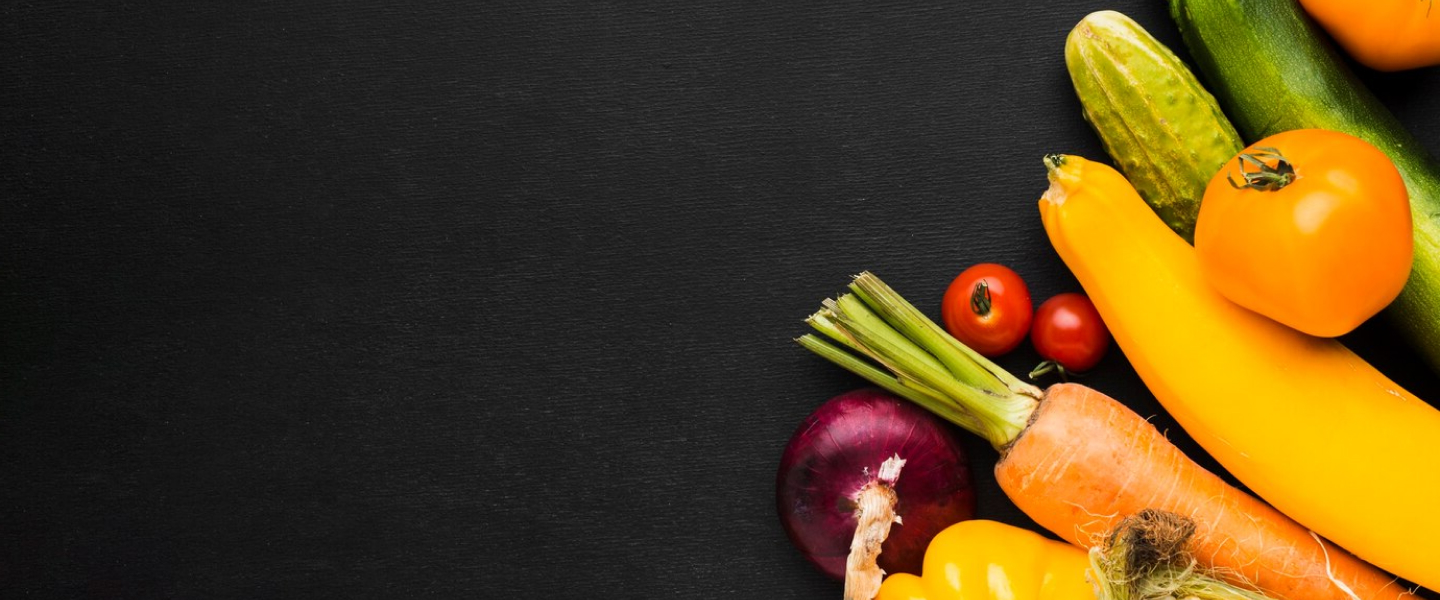
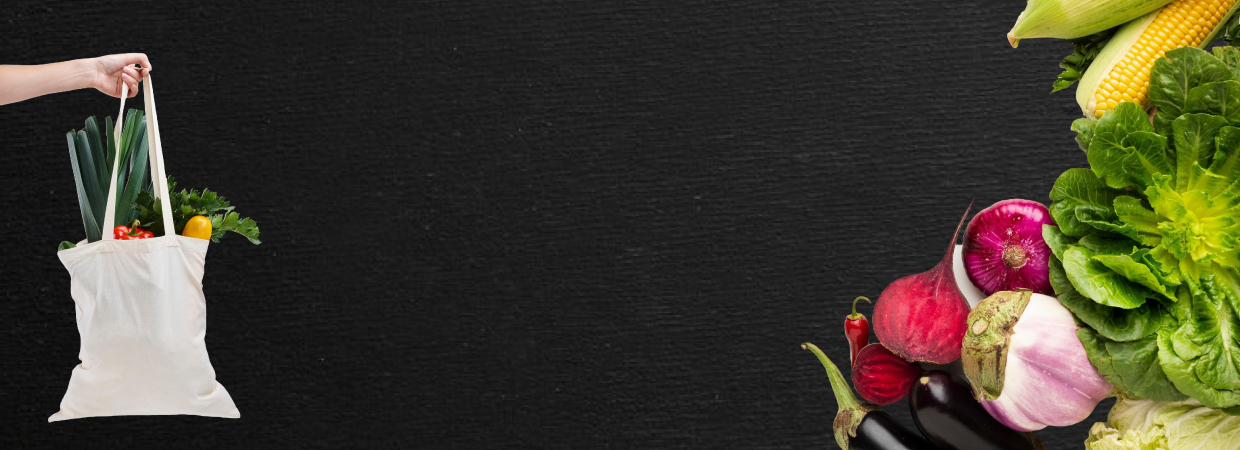
update

diff --git a/index.html b/index.html
@@ -1,0 +1,218 @@
+<!DOCTYPE html>
+<html lang="en">
+
+<head>
+    <meta charset="UTF-8">
+    <meta name="viewport" content="width=device-width, initial-scale=1.0">
+    <title>SynBio - Belanja Buah & Sayur</title>
+
+    <!-- ini favicon -->
+     <link rel="shortcut icon" href="./Assets/faficon.png" type="image/x-icon">
+
+    <!-- bootstrap css -->
+    <link rel="stylesheet" href="./css/bootstrap.min.css">
+
+    <!-- bootstrap js -->
+    <script src="./js/bootstrap.min.js"></script>
+
+    <!-- css -->
+    <link rel="stylesheet" href="./style.css">
+
+    <!-- font awesome -->
+    <link rel="stylesheet" href="https://cdnjs.cloudflare.com/ajax/libs/font-awesome/6.5.1/css/all.min.css">
+</head>
+
+<body>
+    <!-- navbar -->
+    <nav class="navbar navbar-expand-lg bg-body-tertiary">
+        <div class="container">
+            <a class="navbar-brand" href="#"><img src="./Assets/Logo.png" alt="Logo"></a>
+            <button class="navbar-toggler" type="button" data-bs-toggle="collapse" data-bs-target="#navbarNavAltMarkup"
+                aria-controls="navbarNavAltMarkup" aria-expanded="false" aria-label="Toggle navigation">
+                <span class="navbar-toggler-icon"></span>
+            </button>
+            <div class="collapse navbar-collapse" id="navbarNavAltMarkup">
+                <div class="navbar-nav">
+                    <a class="nav-link" aria-current="page" href="./index.html">Beranda</a>
+                    <a class="nav-link" href="./produkPage.html">Produk</a>
+                    <a class="btn btn-outline-success" href="./loginPage.html">Login</a>
+                </div>
+            </div>
+        </div>
+    </nav>
+    <!--navbar -->
+
+    <!-- hero -->
+    <section id="hero">
+        <div class="container">
+            <div class="row">
+                <div class="col-lg-6">
+                    <div class="konten-hero">
+                        <h1>Pilihan Tepat untuk <span class="text-success">Hidup Sehat</span></h1>
+                        <p class="pt-3 pb-3">Lorem ipsum dolor sit amet consectetur. Aliquet mauris id amet et pulvinar
+                            condimentum.
+                            Pulvinar
+                            sapien gravida congue feugiat eros in amet.</p>
+                        <a class="btn btn-outline-success" href="./produkPage.html">Mulai Belanja</a>
+                    </div>
+                </div>
+            </div>
+        </div>
+    </section>
+    <!-- hero -->
+
+    <!-- produk -->
+    <section id="produk">
+        <div class="container">
+            <!-- ini produk terbaik -->
+            <div class="row">
+                <div class="col-lg-6">
+                    <h4>Produk Terbaik</h4>
+                </div>
+                <div class="col-lg-6">
+                    <a class="more" href="./produkPage.html">Lihat Semua Produk <i
+                            class="fa-solid fa-arrow-right ps-2"></i></a>
+                </div>
+            </div>
+
+            <div class="row mt-3">
+                <div class="col-lg-3">
+                    <a class="card card-produk" href="./detail.html">
+                        <div class="foto-produk border p-5">
+                            <img src="./Assets/Produk1.png" class="card-img-top" alt="produk">
+                        </div>
+                        <div class="card-body text-center">
+                            <h5 class="card-tittle">Pisang Cavendish</h5>
+                            <p class="card-text">Rp. 35.000/kg</p>
+                        </div>
+                    </a>
+                </div>
+
+                <div class="col-lg-3">
+                    <a class="card card-produk" href="./detail.html">
+                        <div class="foto-produk border p-5">
+                            <img src="./Assets/Produk2.png" class="card-img-top" alt="produk">
+                        </div>
+                        <div class="card-body text-center">
+                            <h5 class="card-tittle">Wortel Premium</h5>
+                            <p class="card-text">Rp. 20.000/kg</p>
+                        </div>
+                    </a>
+                </div>
+
+                <div class="col-lg-3">
+                    <a class="card card-produk" href="./detail.html">
+                        <div class="foto-produk border p-5">
+                            <img src="./Assets/Produk3.png" class="card-img-top" alt="produk">
+                        </div>
+                        <div class="card-body text-center">
+                            <h5 class="card-tittle">Apel Fuji</h5>
+                            <p class="card-text">Rp. 40.000/kg</p>
+                        </div>
+                    </a>
+                </div>
+
+                <div class="col-lg-3">
+                    <a class="card card-produk" href="./detail.html">
+                        <div class="foto-produk border p-5">
+                            <img src="./Assets/Produk4.png" class="card-img-top" alt="produk">
+                        </div>
+                        <div class="card-body text-center">
+                            <h5 class="card-tittle">Bayam Hijau</h5>
+                            <p class="card-text">Rp. 15.000/kg</p>
+                        </div>
+                    </a>
+                </div>
+
+            </div>
+
+            <!-- ini produk lainnya -->
+            <div class="row mt-5">
+                <div class="col-lg-6">
+                    <h4>Produk Lainnya</h4>
+                </div>
+                <div class="col-lg-6">
+                    <a class="more" href="./produkPage.html">Lihat Semua Produk <i
+                            class="fa-solid fa-arrow-right ps-2"></i></a>
+                </div>
+            </div>
+
+            <div class="row mt-3">
+                <div class="col-lg-3">
+                    <a class="card card-produk" href="./detail.html">
+                        <div class="foto-produk border p-5">
+                            <img src="./Assets/Produk5.png" class="card-img-top" alt="produk">
+                        </div>
+                        <div class="card-body text-center">
+                            <h5 class="card-tittle">Tomat Merah</h5>
+                            <p class="card-text">Rp. 15.000/kg</p>
+                        </div>
+                    </a>
+                </div>
+
+                <div class="col-lg-3">
+                    <a class="card card-produk" href="./detail.html">
+                        <div class="foto-produk border p-5">
+                            <img src="./Assets/Produk6.png" class="card-img-top" alt="produk">
+                        </div>
+                        <div class="card-body text-center">
+                            <h5 class="card-tittle">Jeruk Sunkist</h5>
+                            <p class="card-text">Rp. 28.000/kg</p>
+                        </div>
+                    </a>
+                </div>
+
+                <div class="col-lg-3">
+                    <a class="card card-produk" href="./detail.html">
+                        <div class="foto-produk border p-5">
+                            <img src="./Assets/Produk7.png" class="card-img-top" alt="produk">
+                        </div>
+                        <div class="card-body text-center">
+                            <h5 class="card-tittle">Brokoli</h5>
+                            <p class="card-text">Rp. 35.000/kg</p>
+                        </div>
+                    </a>
+                </div>
+
+                <div class="col-lg-3">
+                    <a class="card card-produk" href="./detail.html">
+                        <div class="foto-produk border p-5">
+                            <img src="./Assets/Produk8.png" class="card-img-top" alt="produk">
+                        </div>
+                        <div class="card-body text-center">
+                            <h5 class="card-tittle">Semangka</h5>
+                            <p class="card-text">Rp. 12.000/kg</p>
+                        </div>
+                    </a>
+                </div>
+
+            </div>
+        </div>
+    </section>
+    <!-- produk -->
+
+    <!-- cta -->
+    <section id="cta">
+        <div class="container bg-cta">
+            <div class="row text-center">
+                <div class="col">
+                    <h6>100% ASLI & BERKUALITAS</h6>
+                    <h1>Belanja Sekarang Untuk Aneka <br>
+                        Sayuran & Buah Segar</h1>
+                    <p>Hanya Produk Organik Berkualitas Tinggi Untuk Anda</p>
+                    <a class="btn btn-success" href="produkPage.html">Mulai Belanja</a>
+                </div>
+            </div>
+        </div>
+    </section>
+    <!-- cta -->
+
+    <!-- footer -->
+    <footer>
+        <hr>
+        <p>Copyright &copy; 2025 Syn-Health All Right Reserved</p>
+    </footer>
+    <!-- footer -->
+</body>
+
+</html>

diff --git a/loginPage.html b/loginPage.html
@@ -1,0 +1,56 @@
+<!DOCTYPE html>
+<html lang="en">
+
+<head>
+    <meta charset="UTF-8">
+    <meta name="viewport" content="width=device-width, initial-scale=1.0">
+    <title>Halaman Login</title>
+
+    <!-- ini favicon -->
+    <link rel="shortcut icon" href="./Assets/faficon.png" type="image/x-icon">
+
+    <!-- bootstrap css -->
+    <link rel="stylesheet" href="./css/bootstrap.min.css">
+
+    <!-- bootstrap js -->
+    <script src="./js/bootstrap.min.js"></script>
+
+    <!-- css -->
+    <link rel="stylesheet" href="./style.css">
+
+    <!-- font awesome -->
+    <link rel="stylesheet" href="https://cdnjs.cloudflare.com/ajax/libs/font-awesome/6.5.1/css/all.min.css">
+</head>
+
+<body>
+    <section id="login">
+        <div class="container ">
+            <div class="row">
+                <div class="col">
+                    <img src="./Assets/Logo.png" alt="logo">
+                    <h1>Masuk</h1>
+                    <p>Masuk untuk mulai berbelanja.</p>
+
+                    <!-- form -->
+                    <form action="./home.html">
+                        <label for="email" class="form-label">Email</label>
+                        <input type="email" class="form-control" placeholder="cth. example@gmail.com">
+
+                        <label for="password" class="form-label">password</label>
+                        <input type="password" class="form-control" placeholder="Masukkan password">
+                        <a href="#" class="text-success d-flex justify-content-end pt-3">Lupa password</a>
+
+                        <input type="submit" class="btn btn-success w-100 mt-5" value="Masuk">
+
+                        <p class="mt-5">Belum punya akun? <a href="./registerPage.html" class="text-success">Daftar Akun</a></p>
+
+                    </form>
+
+                    <!-- form -->
+                </div>
+            </div>
+        </div>
+    </section>
+</body>
+
+</html>

diff --git a/style.css b/style.css
@@ -1,0 +1,108 @@
+@import url('https://fonts.googleapis.com/css2?family=DM+Sans:ital,opsz,wght@0,9..40,100..1000;1,9..40,100..1000&display=swap');
+
+/* sementara */
+body {
+    /* margin-bottom: 500px; */
+}
+
+* {
+    font-family: dm sans;
+}
+
+/* navbar */
+.navbar .navbar-brand img {
+    width: 120px;
+}
+
+.navbar .navbar-nav {
+    margin-left: auto;
+}
+
+.navbar .navbar-nav .nav-link {
+    margin-right: 20px;
+}
+
+.navbar .navbar-nav .btn {
+    width: 120px;
+}
+/* navbar */
+
+/* hero */
+#hero {
+    background-image: url(./Assets/banner.jpg);
+    background-size: cover;
+    height: 600px;
+    color: white;
+    display: flex;
+    align-items: center;
+}
+
+#hero .konten-hero h1 {
+    font-size: 60px;
+}
+/* hero */
+
+/* produk */
+#produk {
+    margin-top: 100px;
+}
+
+#produk .more {
+    text-decoration: none;
+    color: black;
+    display: flex;
+    justify-content: end;
+    align-items: center;
+}
+
+
+#produk .card-produk {
+    text-decoration: none;
+    border: none;
+}
+
+#produk .card-produk .foto-produk {
+    height: 350px;
+    display: flex;
+    align-items: center;
+    border-radius: 10px;
+}
+
+/* cta */
+#cta {
+    margin-top: 100px;
+    color: white;      
+}
+
+#cta .bg-cta {
+    background-image: url(./Assets/Gambar1.jpg);
+    background-size: cover;
+    height: 500px;
+    border-radius: 20px;
+    display: flex;
+    align-items: center;
+    justify-content: center;
+}
+
+#cta h1 {
+    font-size: 50px;
+}
+/* cta */
+
+/* Login */
+#login .bg-login{
+    display: flex;
+    justify-content: center;
+    text-align: center;
+    align-items: center;
+    background-image: url(./Assets/Login.jpg);
+    background-size: cover;
+}
+/* Login */
+
+/* footer */
+footer {
+    margin-top: 100px;
+    text-align: center;
+}
+/* footer */
